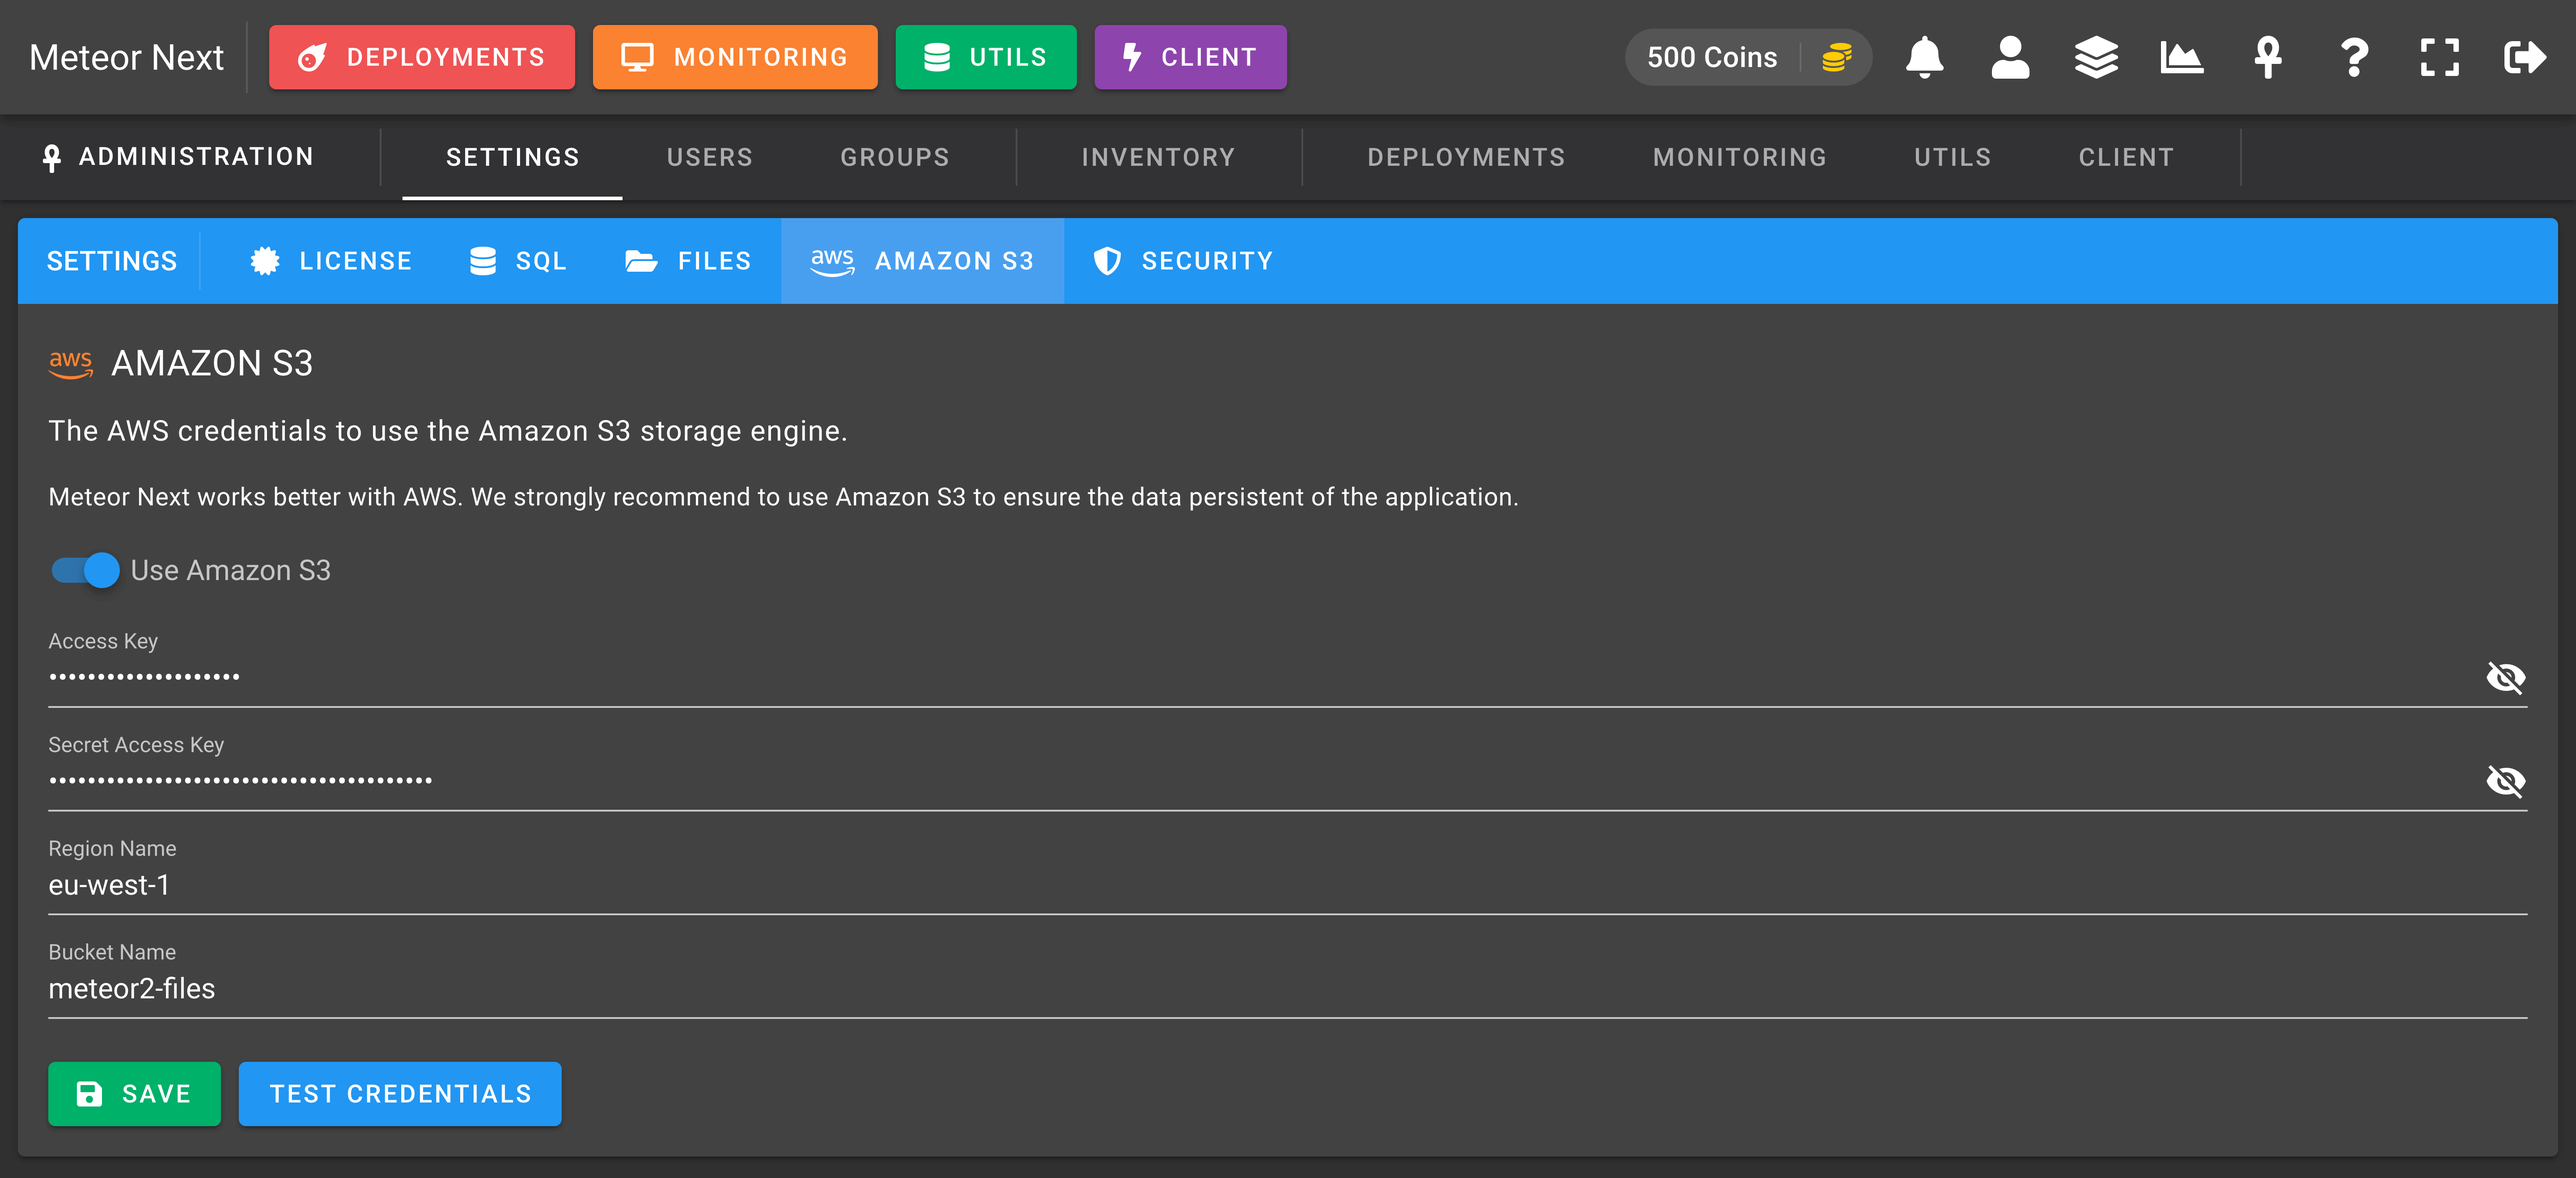
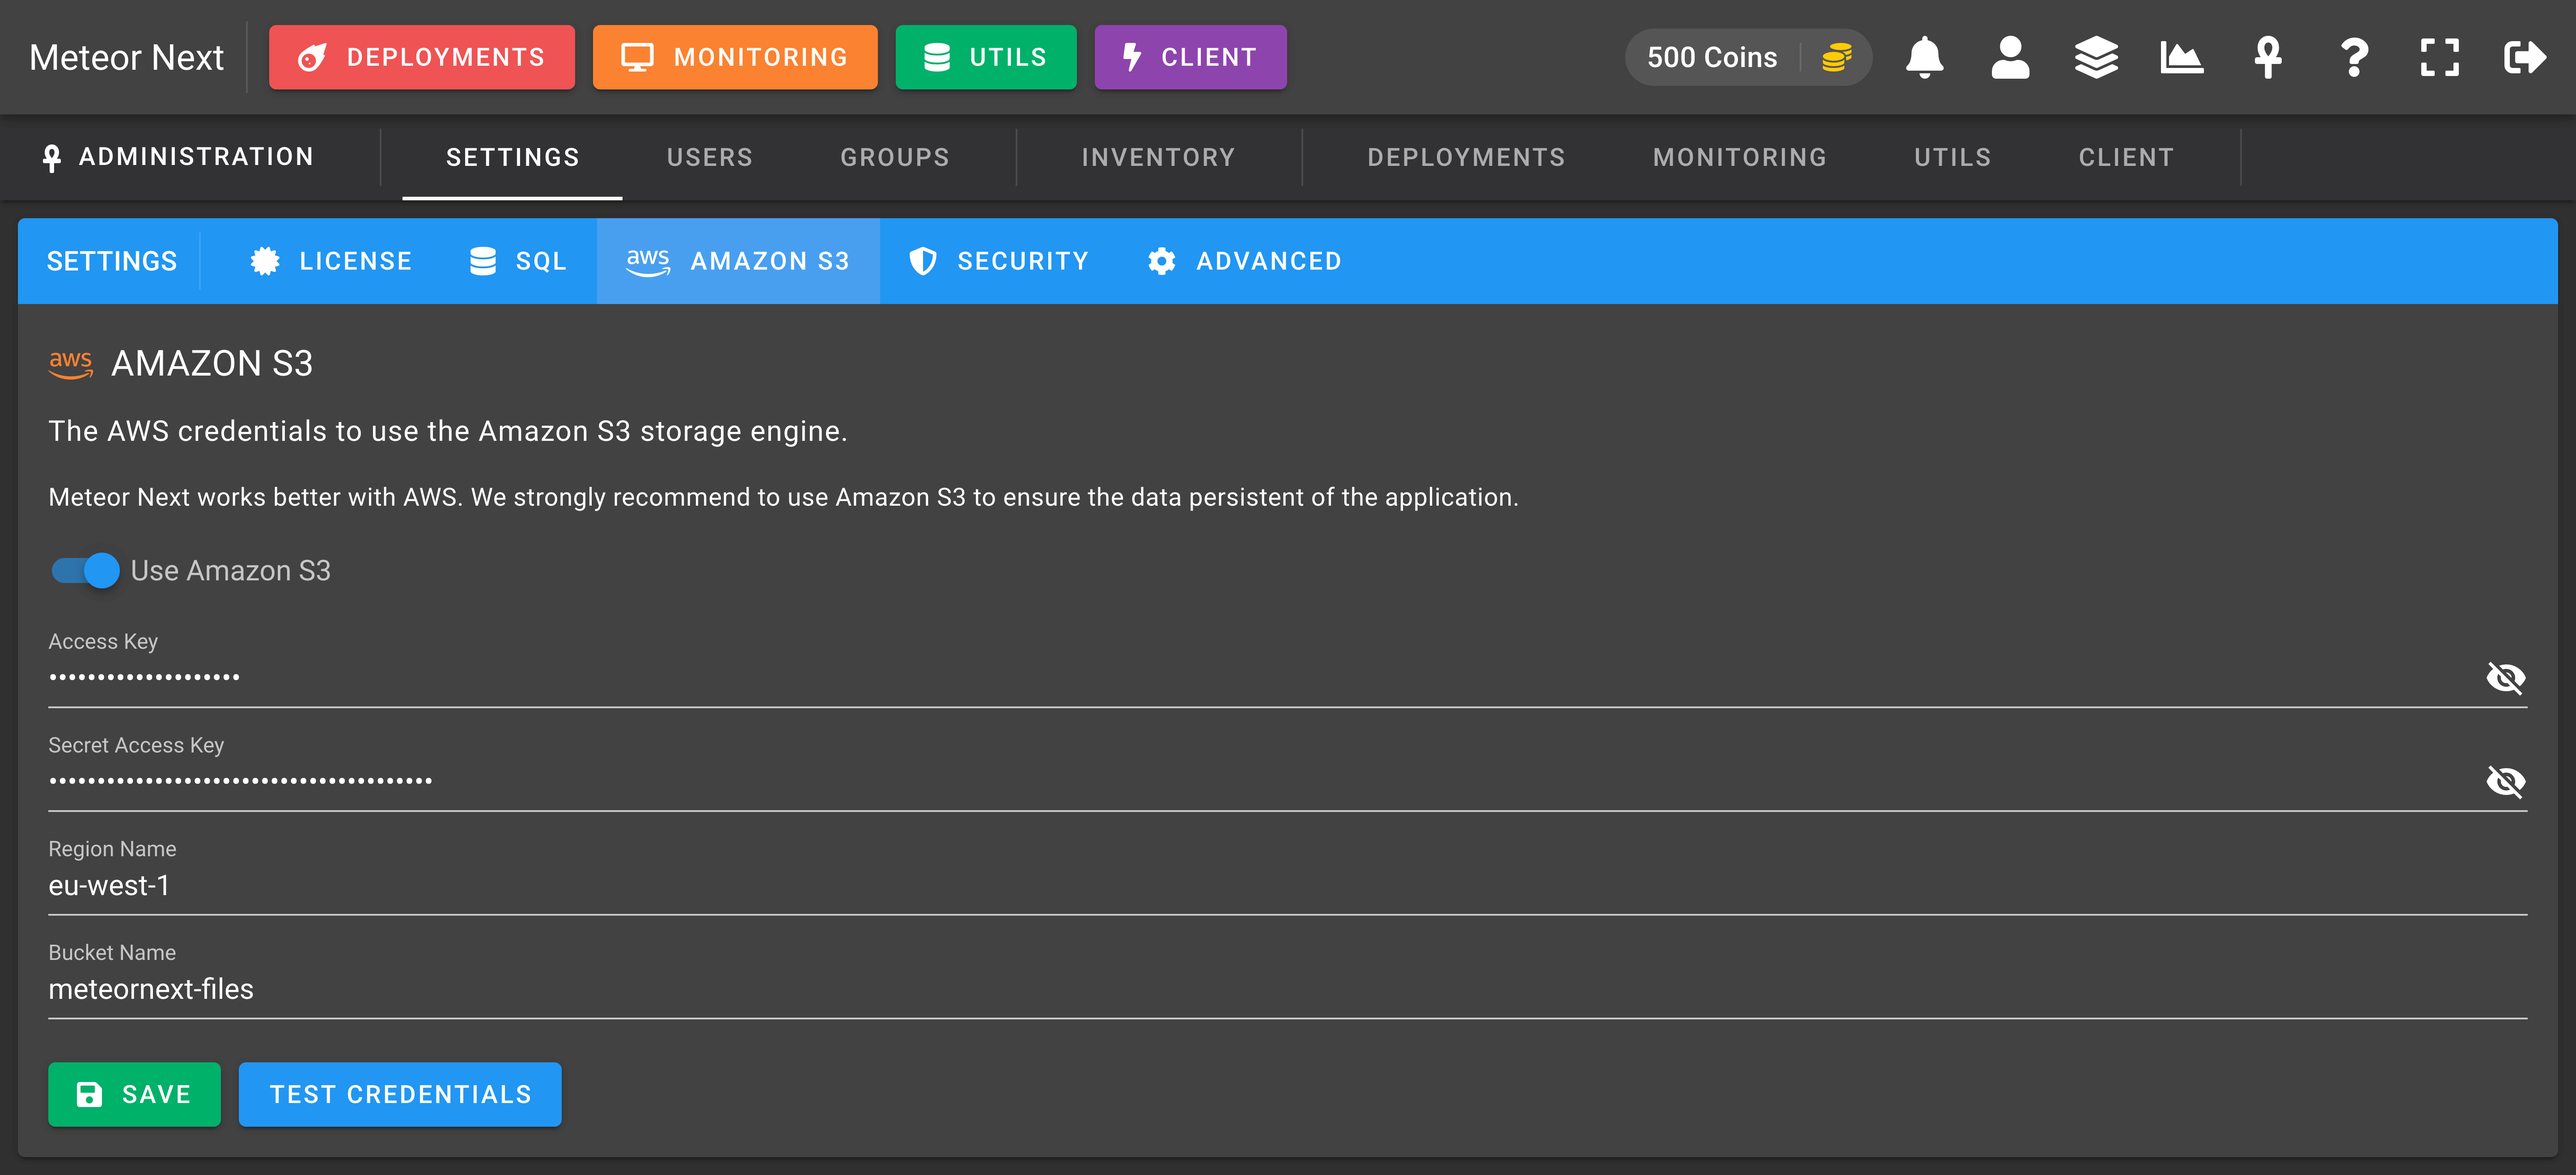
Updated Settings-Advanced and Groups-Client

diff --git a/docs/guides/administration.md b/docs/guides/administration.md
@@ -19,6 +19,7 @@ The Settings view is used to manage some application global parameters:
 - [SQL](#sql)
 - [Amazon S3](#amazon-s3)
 - [Security](#security)
+- [Advanced](#advanced)
 
 ### License
 
@@ -130,6 +131,18 @@ Look for the `restrict_url` key and leave its value empty.
 
 The next time you login into the app, you will be able to access to the Administration panel.
 :::
+
+### Advanced
+
+The Advanced section it's used to tune up some parameters to ensure that Meteor Next performs at maximum efficiency.
+
+When the memory cleanup happens a new worker process is started. This process then starts serving all next api requests transparently. The old worker waits up to 30 seconds to finish serving the remaining active requests (for example long running queries executed by the Client). After 30 seconds this worker is gracefully shutdown.
+
+All active Deployments, Imports, Exports and Clones at the moment of the cleanup remain unaffected, since are processes outside the api ecosystem.
+
+The only requests that can fail at the moment of the cleanup are long running queries executed by the Client that takes more than 30 seconds to finish. That's why it's recommended to set the cleanup execution time in non-working hours.
+
+This option is enabled by default and it's recommended not to disable it.
 
 ## Users
 
@@ -294,12 +307,12 @@ Here you can set the permissions affecting the Client section.
 - **Apply Limits**: Enable this option to apply limits of all executed queries through Client section.
     - **Execution Timeout Mode**: This option can be either `All Queries` or `Only SELECTs`.
     - **Execution Timeout Value**: This value (measured in seconds) is used to limit the maximum execution time that queries can last (all queries or only selects, depending on the mode selected). If a query takes more time to be executed, it will be automatically stopped raising a timeout error.
+    - **Execution Rows**: This value (measured in number of rows) is used to limit the maximum returned rows returned by SELECTs. It can be useful to prevent users to SELECT millions of rows of Production databases.
 
 **TRACKING**
 
 - **Track Queries**: Enable this option to store all the queries that are being executed in the Client section. It's useful if you want to know which kind of queries your users are executing. Also it can be useful in case of someone executes a query and breaks something. In this way you will know exactly what queries the user executed and this information may come in handy in order to solve the issue.
     - **Tracking Mode**: This option can be either `All Queries` to track every query the users execute or `All Queries (exclude SELECTs)` to exclude SELECTs and EXPLAINs to be tracked.
-    - **Tracking Filter**: This option is used to filter which queries are meant to be tracked. The available options are `All Queries`, `Succeeded` or `Failed`.
     - **Tracking Retention Days**: This value is used to determine how many days we would like to retain the queries tracked.
 
 ## Inventory
